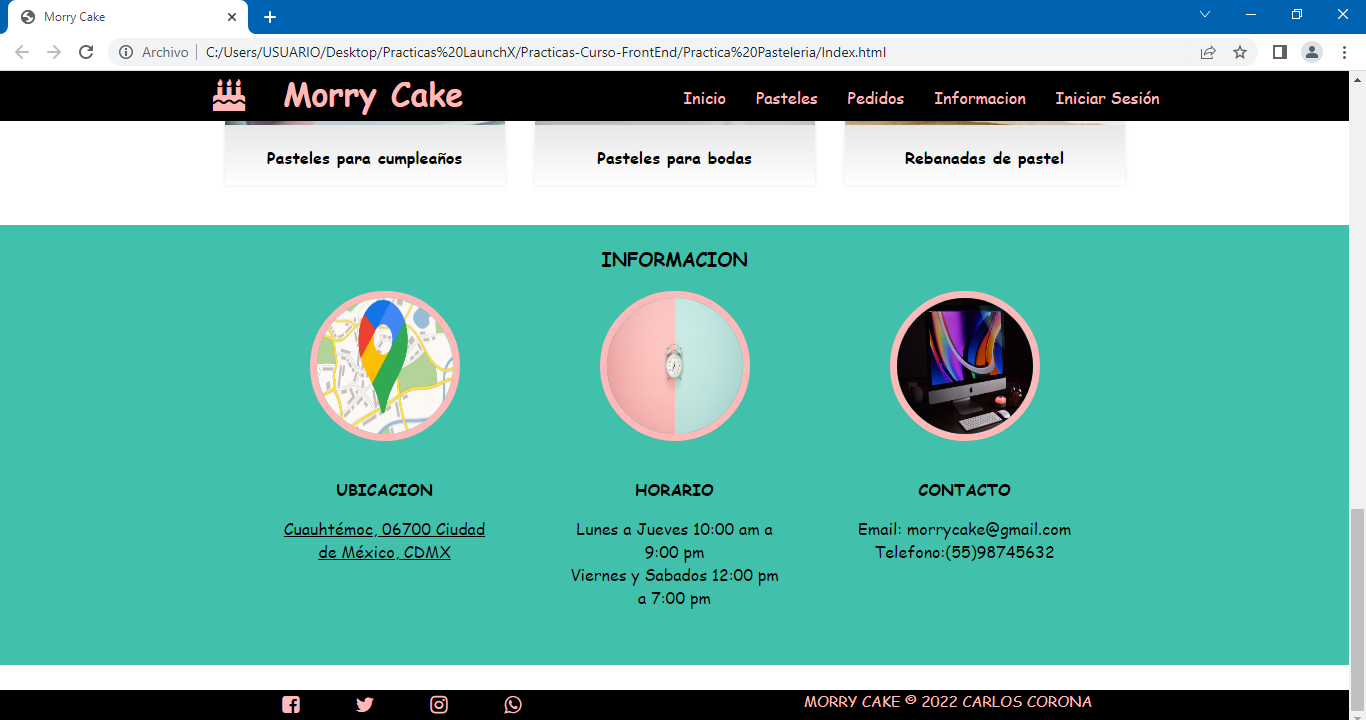
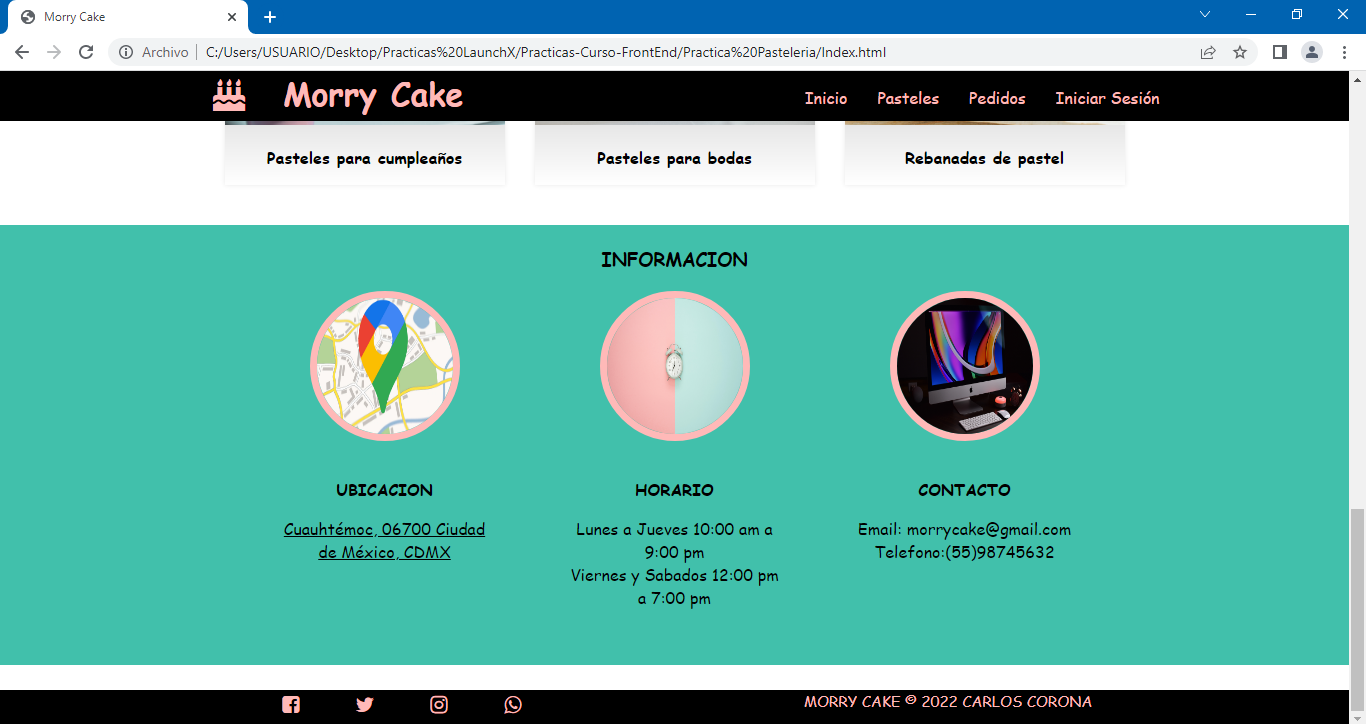
Cambios en carpetas y njuevas imagenes

diff --git a/Practica Pasteleria/pastelero.html b/Practica Pasteleria/pastelero.html
@@ -5,8 +5,8 @@
     <meta http-equiv="X-UA-Compatible" content="IE=edge">
     <meta name="viewport" content="width=device-width, initial-scale=1.0">
     <title>Pasteleros</title>
-    <link rel="stylesheet" href="./CSS/fontello.css">
-    <link rel="stylesheet" href="./CSS/pastelero.css">
+    <link rel="stylesheet" href="./css/fontello.css">
+    <link rel="stylesheet" href="./css/pastelero.css">
 </head>
 <body>
 
@@ -20,6 +20,7 @@
                 <a href="#sabores">Sabores</a>
                 <a href="#adornos">Adornos</a>
                 <a href="#pedidos">Pedidos</a>
+                <a href="./Index.html">Cerrar Sesión</a>
             </nav>
         </div>
     </header>

diff --git a/Practica Pasteleria/Index.html b/Practica Pasteleria/Index.html
@@ -20,8 +20,7 @@
                 <a href="#banner">Inicio</a>
                 <a href="#pasteles">Pasteles</a>
                 <a href="./pedidos.html">Pedidos</a>
-                <a href="#info">Informacion</a>
-                <a href="#sesion">Iniciar Sesión</a>
+                <a href="./pastelero.html">Iniciar Sesión</a>
             </nav>
         </div>
     </header>

diff --git a/Practica Pasteleria/README.md b/Practica Pasteleria/README.md
@@ -34,15 +34,16 @@ Descripción:
 ***Te dejo el link directo de la pagina web cliente, ¡vamos vela tu mismo! :eyes: :point_right: [LINK]()***
 
 <img src="./img/pa1.PNG" alt="Inicio" height="500">
-<img src="./img/pa2.PNG" alt="Inicio" height="500">
-<img src="./img/pa3.PNG" alt="Inicio" height="500">
-<img src="./img/pa4.PNG" alt="Inicio" height="500">
+<img src="./img/pa2.PNG" alt="Menu" height="500">
+<img src="./img/pa3.PNG" alt="footer" height="500">
+<img src="./img/pa4.PNG" alt="pedidos" height="500">
 
 ### Pastelero
 
 ***Te dejo el link directo de la pagina web pastelero, ¡vamos vela tu mismo! :eyes: :point_right: [LINK]()***
 
 <img src="./img/pas1.PNG" alt="Inicio" height="500">
-<img src="./img/pas2.PNG" alt="Inicio" height="500">
+<img src="./img/pas2.PNG" alt="Inventario" height="500">
+<img src="./img/pas3.PNG" alt="Inventario" height="500">
 
 [Volver al menu &ldca;](../README.md "Regresar a página principal")
